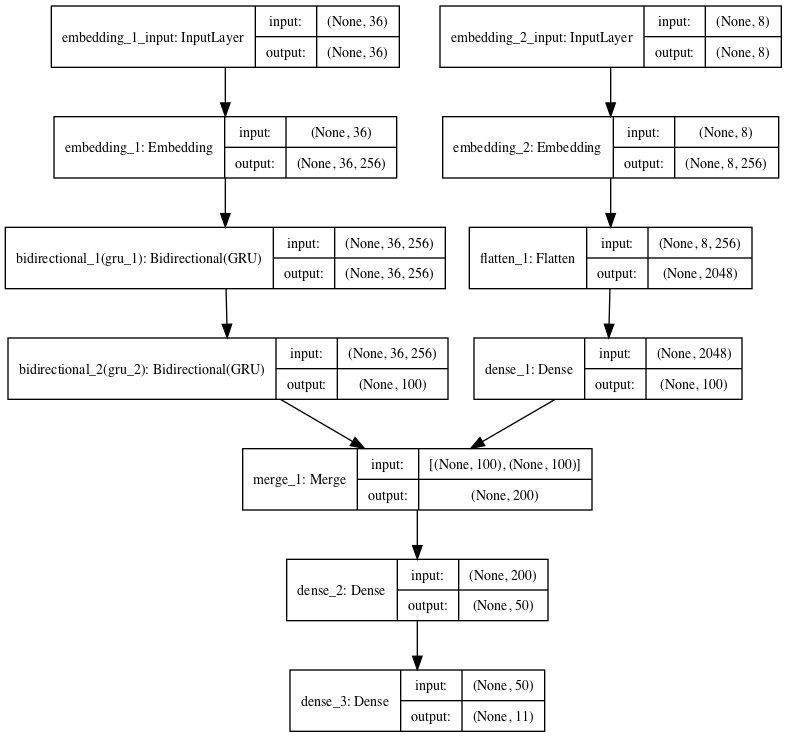
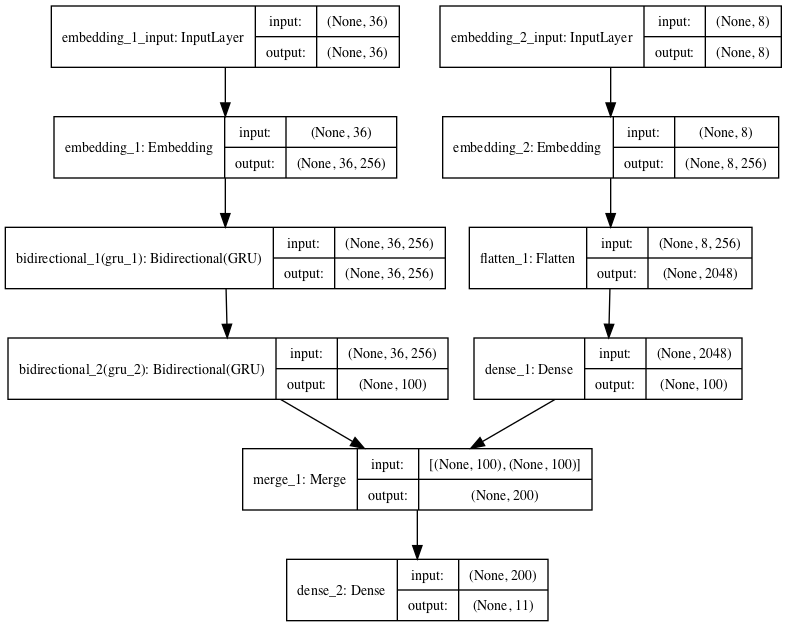
update rnn, 13th row

Changed region(s): [[0.0, 0.0, 1.0, 1.0], [0.5489, 0.2424, 0.5794, 0.2727]]

diff --git a/code/twitter_sentiment_rnn.py b/code/twitter_sentiment_rnn.py
@@ -6,7 +6,8 @@ from typing import Tuple, List, Dict
 from vocabulary import *
 from itertools import chain
 from keras.models import Sequential 
-import keras.optimizers
+import keras
+from keras import optimizers
 from keras.layers import Dense, Merge, Embedding, Conv1D, MaxPooling1D, Flatten, GRU, Bidirectional
 from keras.callbacks import EarlyStopping
 from keras.utils import plot_model
@@ -187,16 +188,16 @@ def twitter_rnn(vocabulary_size: int, sentence_length: int, tag_num: int, n_outp
     model_tag.add(Dense(100, activation='tanh')) 
 
 
+    adam = optimizers.Adam(lr=0.1, beta_1=0.9, beta_2=0.999, epsilon=None, decay=0.001, amsgrad=False)
     model = Sequential()
     model.add(Merge([model_sentence, model_tag], mode = 'concat'))
-    model.add(Dense(50, activation='tanh'))
     model.add(Dense(n_outputs, activation='sigmoid'))
-    model.compile(loss='binary_crossentropy', optimizer='Adam', metrics=['accuracy'])
+    model.compile(loss='binary_crossentropy', optimizer=adam, metrics=['accuracy'])
 
     print(model.summary())
-    plot_model(model, show_shapes = True, to_file='rnn12.png')
+    plot_model(model, show_shapes = True, to_file='rnn13.png')
 
-    kwargs = {'callbacks': [EarlyStopping(monitor='val_loss', min_delta=0.0001, patience=20, verbose=2, mode='auto')], 'batch_size': 64}
+    kwargs = {'callbacks': [EarlyStopping(monitor='val_loss', min_delta=0.001, patience=20, verbose=0, mode='auto')], 'batch_size': 32}
 
     return (model,kwargs)
 
@@ -248,10 +249,10 @@ def main():
         n_outputs = train_out.shape[1]
         n_inputs = train_concate.shape[1]
 
-        print('nums:')
-        print (sentence_len)
-        print (tag_n)
-        print (n_inputs)
+        # print('nums:')
+        # print (sentence_len)
+        # print (tag_n)
+        # print (n_inputs)
 
         dev_dataset = load_data('dev')
         dev_sentence, dev_tag = dev_dataset.get_input()
